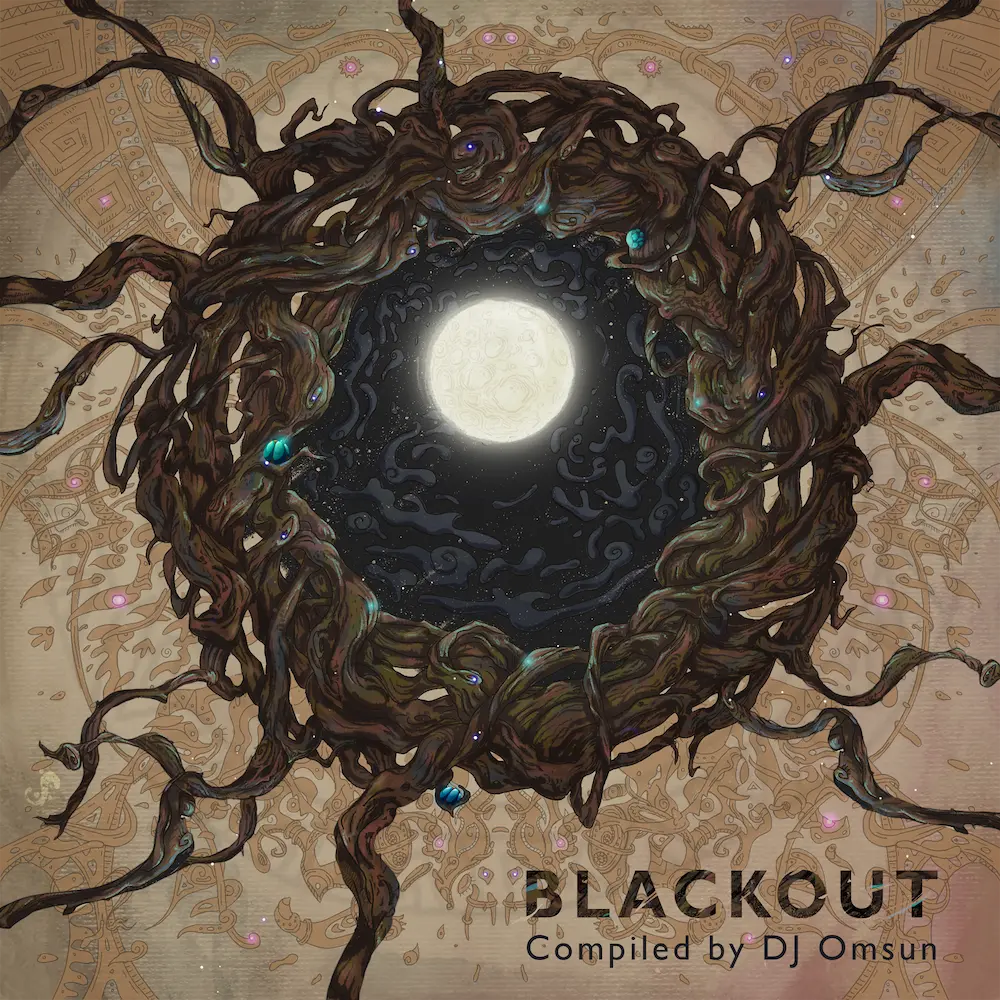
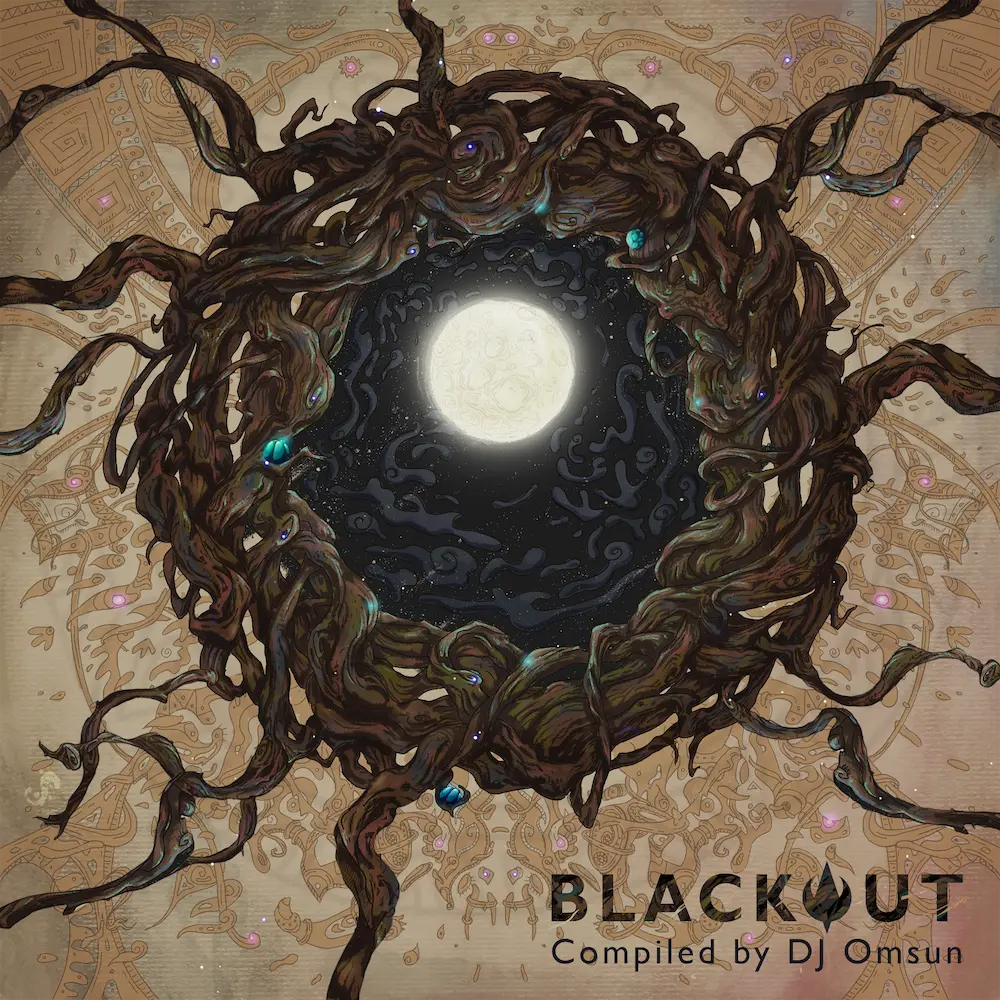
fixes

Changed region(s): [[0.527, 0.868, 0.961, 0.961], [0.899, 0.806, 0.93, 0.837], [0.868, 0.775, 0.899, 0.806]]

diff --git a/src/app/artists/artists.component.html b/src/app/artists/artists.component.html
@@ -1,7 +1,7 @@
+<mk-heading class="mt-4" [title]="'Artists'" [subTitle]="'Get to know the creative minds behind our music'"></mk-heading>
+
 <section class="artists-wrapper">
 	<ng-container *ngIf="artists$ | async as artists">
-		<mk-heading class="mt-4" [title]="'Artists'" [subTitle]="'Get to know the creative minds behind our music'"></mk-heading>
-
 		<div #artist class="artist-item mb-16" *ngFor="let item of artists">
 			<a [routerLink]="['/artists', item.artistRoute]" class="artist-item__link">
 				<p #artistName class="artist-item__name js-artist-name">{{item.artistName}}</p>
@@ -10,10 +10,12 @@
 			</a>
 		</div>
 	</ng-container>
+</section>
 
+<mk-heading [title]="'DJs'" [subTitle]="'Meet our talented roster of DJs'"></mk-heading>
+
+<section class="artists-wrapper">
 	<ng-container *ngIf="djs$ | async as djs">
-		<mk-heading [title]="'DJs'" [subTitle]="'Meet our talented roster of DJs'"></mk-heading>
-
 		<div class="artist-item" *ngFor="let item of djs">
 			<a [routerLink]="['/artists', item.artistRoute]" class="artist-item__link">
 				<p class="artist-item__name">{{item.artistName}}</p>

diff --git a/src/styles/blocks/new.scss b/src/styles/blocks/new.scss
@@ -30,7 +30,7 @@
 		font-weight: bold;
 		text-align: center;
 		line-height: normal;
-		background-image: url('#{$imageFolder}/release-cover/mkdg005_blackout.jpg');
+		// background-image: url('#{$imageFolder}/release-cover/mkdg005_blackout.jpg');
 		background-clip: text;
 		color: transparent;
 		background-size: cover;
@@ -46,7 +46,7 @@
 	}
 
 	&__sub-title {
-		font-size: 2rem;
+		font-size: 1.7rem;
 		letter-spacing: .1rem;
 		text-shadow: 0 0 1px rgb(255 255 255 / 50%);
 		margin-bottom: 2rem;

diff --git a/src/app/artists/artists.scss b/src/app/artists/artists.scss
@@ -1,10 +1,21 @@
 @use '../../styles/_utils.scss' as *;
 
 .artists-wrapper {
-	display: grid;
-	grid-template-columns: repeat(auto-fit, minmax(250px, 1fr));
+	columns: 4;
 	gap: 25px 36px;
 	margin-bottom: 25px;
+
+	@include desktopSmall {
+		columns: 3;
+	}
+
+	@include tablet {
+		columns: 2;
+	}
+
+	@include mobile {
+		columns: 1;
+	}
 }
 
 .artist-item {
